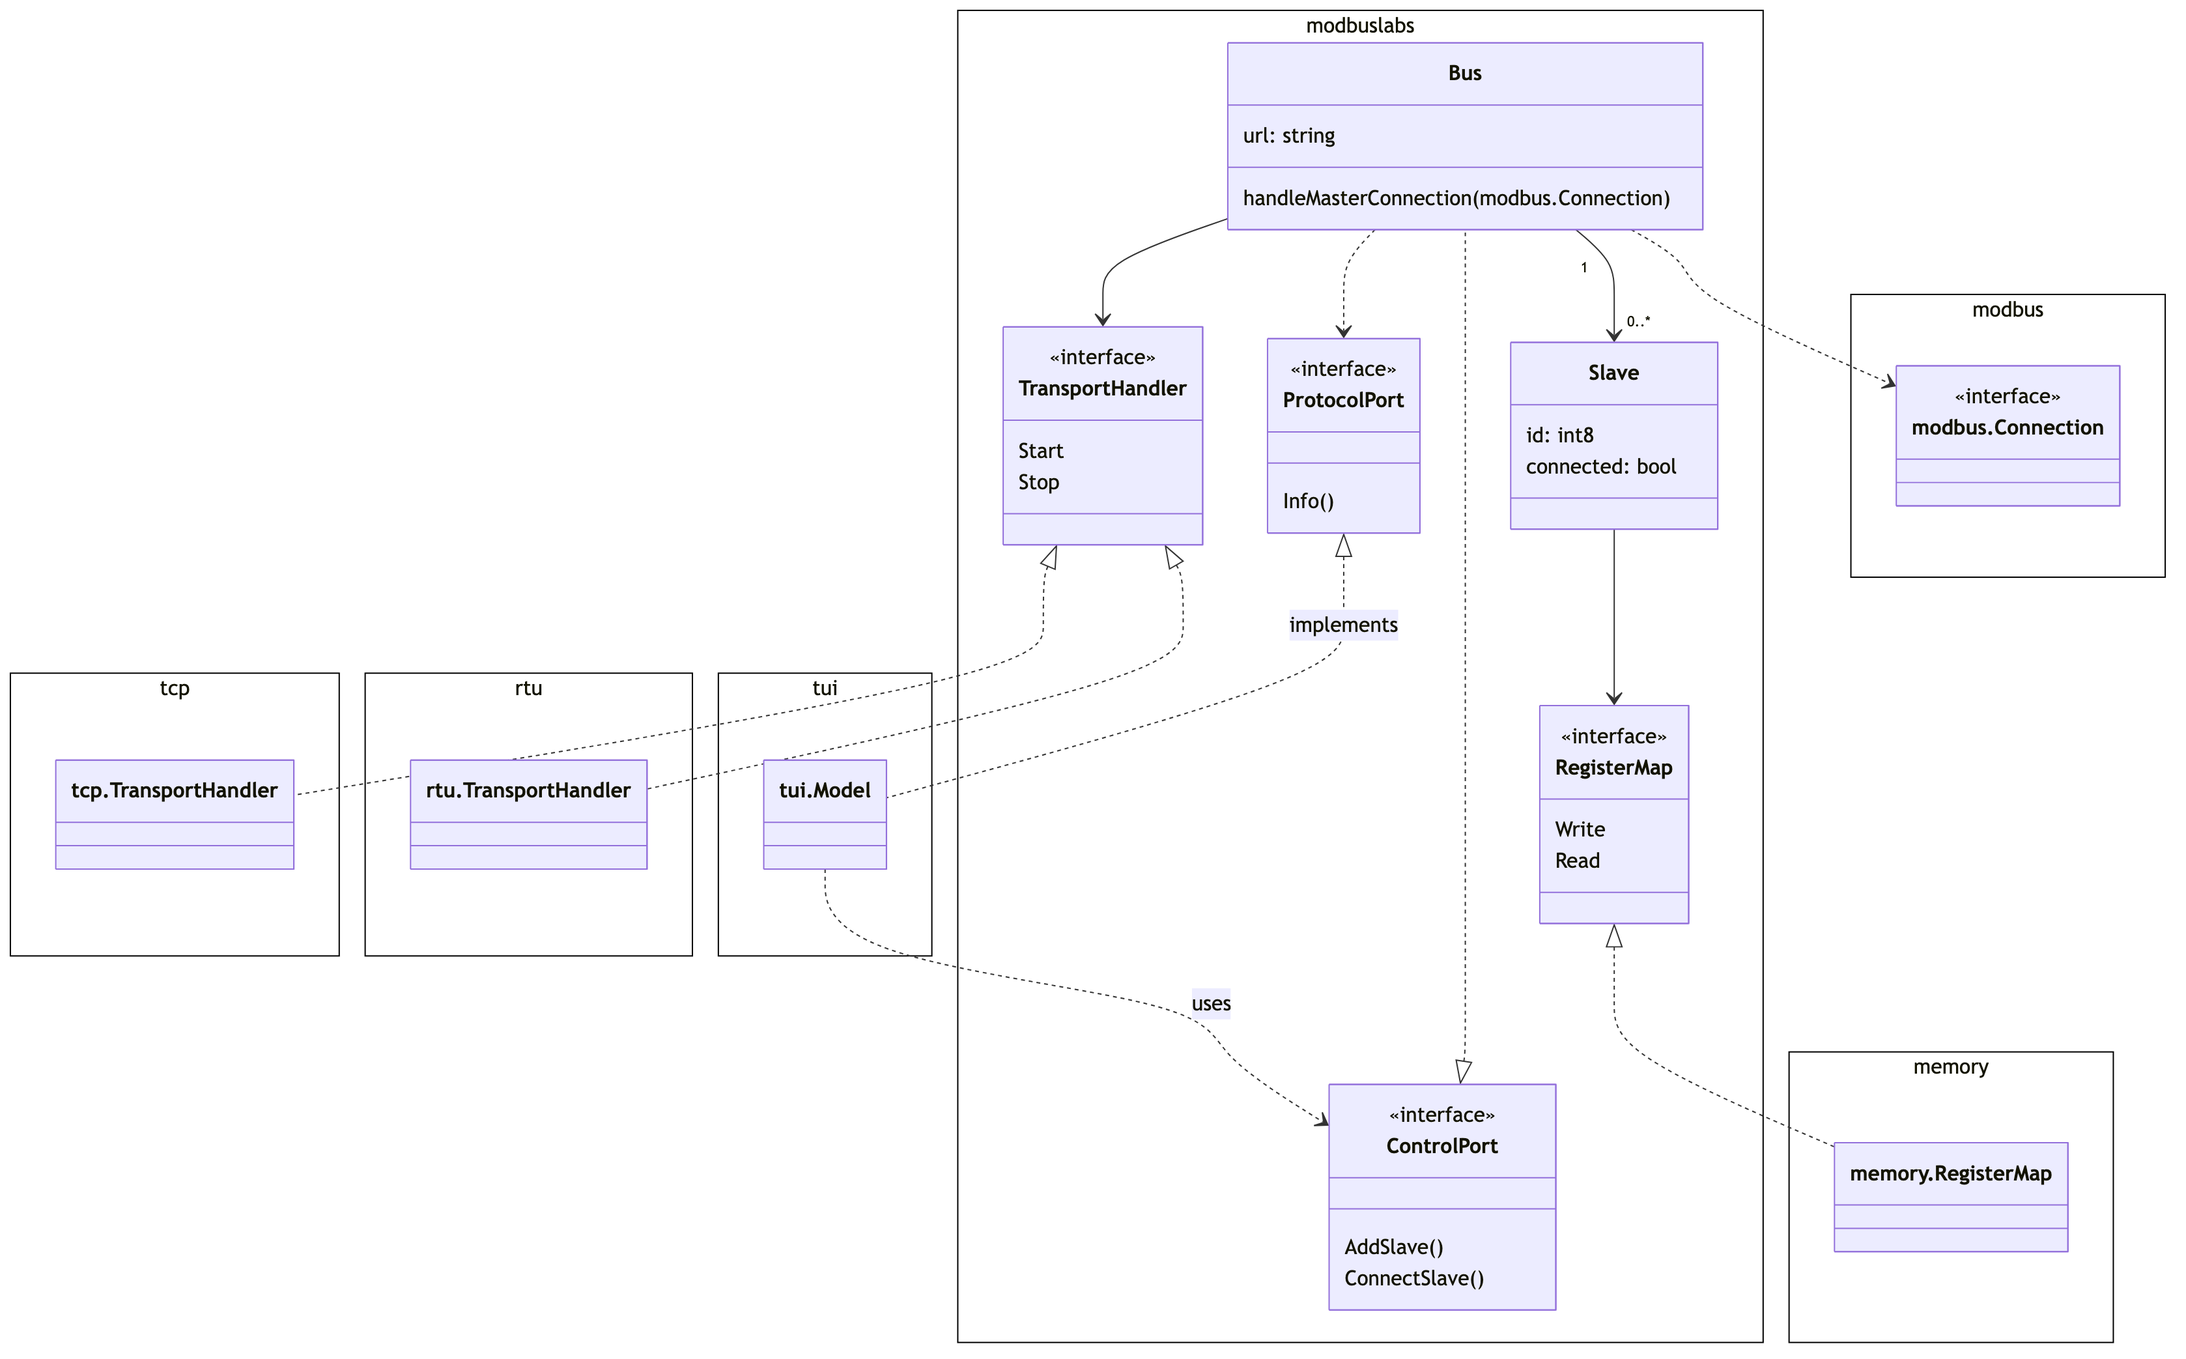
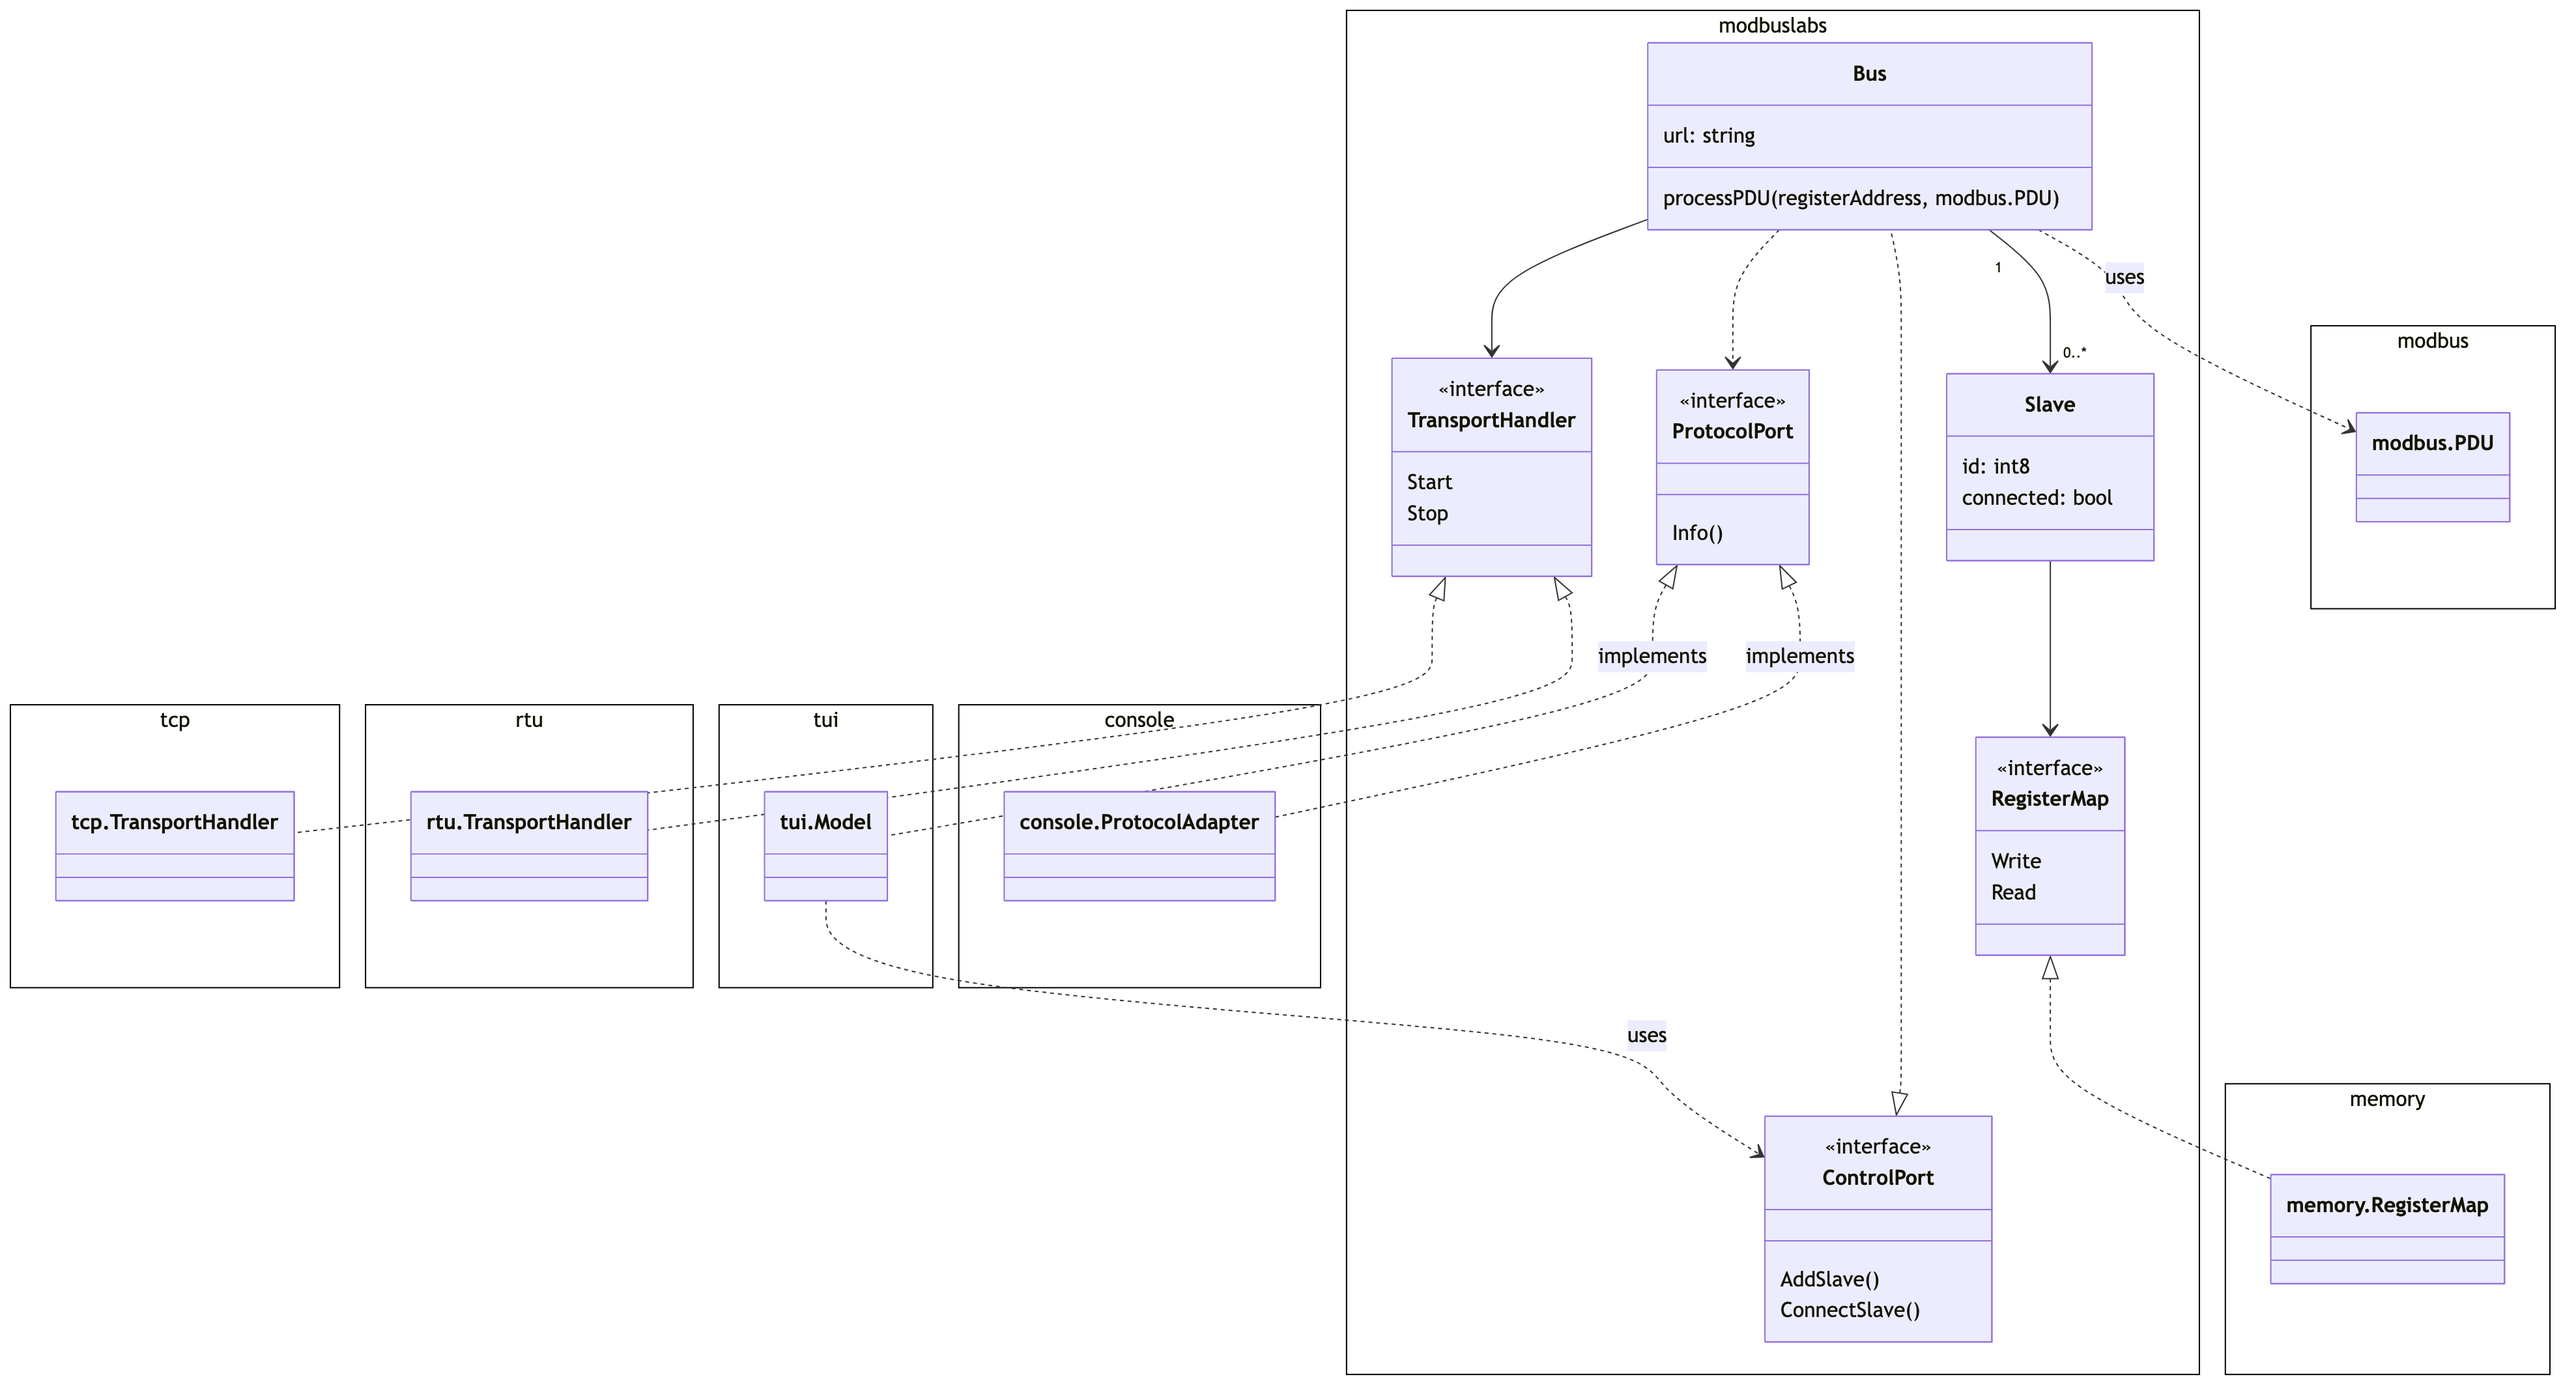
Use protocolPort in rtu handler

diff --git a/rtu/handler.go b/rtu/handler.go
@@ -13,12 +13,13 @@ import (
 )
 
 type Handler struct {
-	serialPort serial.Port
-	url        string
+	serialPort   serial.Port
+	url          string
+	protocolPort modbuslabs.ProtocolPort
 }
 
-func NewHandler(url string) *Handler {
-	return &Handler{url: url}
+func NewHandler(url string, protocolPort modbuslabs.ProtocolPort) *Handler {
+	return &Handler{url: url, protocolPort: protocolPort}
 }
 
 func (h *Handler) Start(ctx context.Context, processPDU modbuslabs.ProcessPDUCallback) (err error) {
@@ -84,10 +85,12 @@ func (h *Handler) startRequestCycle(ctx context.Context, processPDU modbuslabs.P
 					regAddr := binary.BigEndian.Uint16(data[2:4])
 					pdu.Payload = data[4:6]
 
+					h.protocolPort.Info(fmt.Sprintf("TX % X", data))
 					processPDU(regAddr, pdu)
 
 					// Echo back the request as response
 					h.serialPort.Write(data)
+					h.protocolPort.Info(fmt.Sprintf("RX % X", data))
 				}
 			}
 		}
@@ -95,7 +98,8 @@ func (h *Handler) startRequestCycle(ctx context.Context, processPDU modbuslabs.P
 }
 
 func (h *Handler) Stop() error {
-	return nil
+	slog.Debug("Closing serial port")
+	return h.serialPort.Close()
 }
 
 func calculateCRC(data []byte) uint16 {

diff --git a/tcp/handler.go b/tcp/handler.go
@@ -93,7 +93,7 @@ func (h *Handler) processRequest(conn net.Conn, processPDU modbuslabs.ProcessPDU
 		return err
 	}
 	slog.Debug("MBAP header received", "pdu", pdu, "txid", txnId)
-	h.protocolPort.Info(fmt.Sprintf("req % X % X % X", header, pdu.FunctionCode, pdu.Payload))
+	h.protocolPort.Info(fmt.Sprintf("TX % X % X % X", header, pdu.FunctionCode, pdu.Payload))
 
 	processPDU(3, *pdu)
 
@@ -102,6 +102,6 @@ func (h *Handler) processRequest(conn net.Conn, processPDU modbuslabs.ProcessPDU
 		return err
 	}
 	slog.Debug(fmt.Sprintf("MBAP response written: % X", payload))
-	h.protocolPort.Info(fmt.Sprintf("rsp % X", payload))
+	h.protocolPort.Info(fmt.Sprintf("RX % X", payload))
 	return nil
 }

diff --git a/bus.go b/bus.go
@@ -2,8 +2,6 @@ package modbuslabs
 
 import (
 	"context"
-	"fmt"
-	"io"
 	"log/slog"
 
 	"github.com/rwirdemann/modbuslabs/pkg/modbus"
@@ -19,7 +17,7 @@ func NewBus(handler TransportHandler, protocolPort ProtocolPort) *Bus {
 }
 
 func (m *Bus) Start(ctx context.Context) error {
-	return m.handler.Start(ctx, m.handleMasterConnection, m.processPDU)
+	return m.handler.Start(ctx, m.processPDU)
 }
 
 func (m *Bus) Stop() error {

diff --git a/cmd/slavesim/main.go b/cmd/slavesim/main.go
@@ -41,7 +41,7 @@ func main() {
 			panic(err)
 		}
 	case "rtu":
-		handler = rtu.NewHandler("/tmp/virtualcom0")
+		handler = rtu.NewHandler("/tmp/virtualcom0", protocolPort)
 	default:
 		flag.Usage()
 		os.Exit(1)

diff --git a/console/protocol_adapter.go b/console/protocol_adapter.go
@@ -10,5 +10,5 @@ type ProtocolAdapter struct {
 
 func (p ProtocolAdapter) Info(msg string) {
 	ts := time.Now().Format(time.DateTime)
-	fmt.Printf("%s: %s\n", ts, msg)
+	fmt.Printf("%s %s\n", ts, msg)
 }
